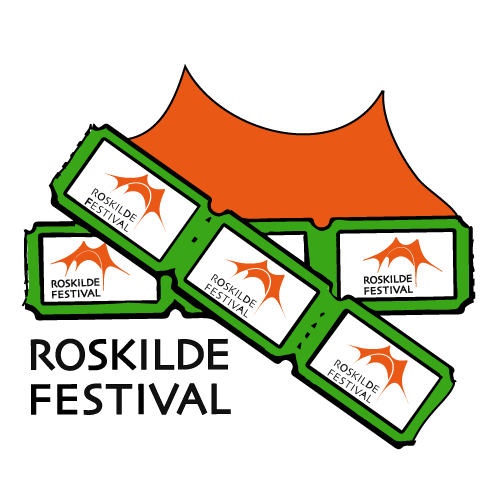
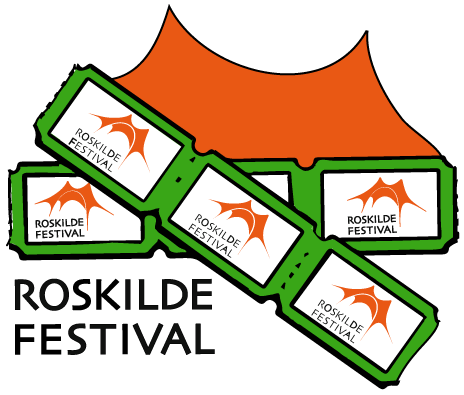
Lot of Changes JQuary and CSS

diff --git a/js/scripts.js b/js/scripts.js
@@ -2,7 +2,7 @@ $(function(){
 // some Jquery to control switching between right and left side of the website
     $("#sub-wrapper, #sub-content-wrapper, #activate, .link").click(function(e){
         e.stopPropagation();
-        $("#wrapper").animate({"margin-left":"-60%"});
+        $("#wrapper").animate({"margin-left":"-58%"});
     });
 
     $("#main-wrapper, #main-content-wrapper").click(function(e){
@@ -53,4 +53,16 @@ $(function(){
 
         return false;
     });
+// Back button animation
+	$("#sub-wrapper, #sub-content-wrapper, #activate, .link").click(function() {
+//		$(".back").show();
+		$(".back").css('visibility', 'visible');
+	});
+		$("#main-content-wrapper").click(function() {
+		$(".back").css('visibility', 'hidden');
+	});
+	$(".back").click(function() {
+		$(".back").css('visibility', 'hidden');
+	});	
+//
 });

diff --git a/style.css b/style.css
@@ -5,6 +5,7 @@ GENERAL STYLINGS
 .back{
 	margin-top: 1em;
 	margin-left: .5em;
+	visibility: hidden;
 }
 .back a{
 	font-size: 3em;
@@ -18,7 +19,8 @@ GENERAL STYLINGS
 }
 
 #logo{
-	height:6em;
+	max-width: 100%;
+	height: auto;
 }
 
 body,html {
@@ -59,7 +61,7 @@ h2{
 	IMAGES
 ***/
 img {
-	height:4em;
+	height: 3em;
 	vertical-align: middle;
 }
 
@@ -410,7 +412,7 @@ li[class*="instagram"] {
 
 	input.placeholder {
 		width: 125px;
-		height: 40px;
+		height: 52px;
 		font-size: .7em;
 	}
 

diff --git a/index.php b/index.php
@@ -96,10 +96,10 @@ if (isset($_GET['form'])){
                         <a><img src="img/hashtag.png" alt=""></a>
 
                         <br>
-
+<!--
                         <a href=""><i class= 'fa fa-instagram'> </i></a>
                         <a href=""><i class= 'fa fa-facebook-square'> </i></a>
-                        <a href=""><i class= 'fa fa-twitter-square'> </i></a>
+                        <a href=""><i class= 'fa fa-twitter-square'> </i></a>-->
                     </p>
 
 
